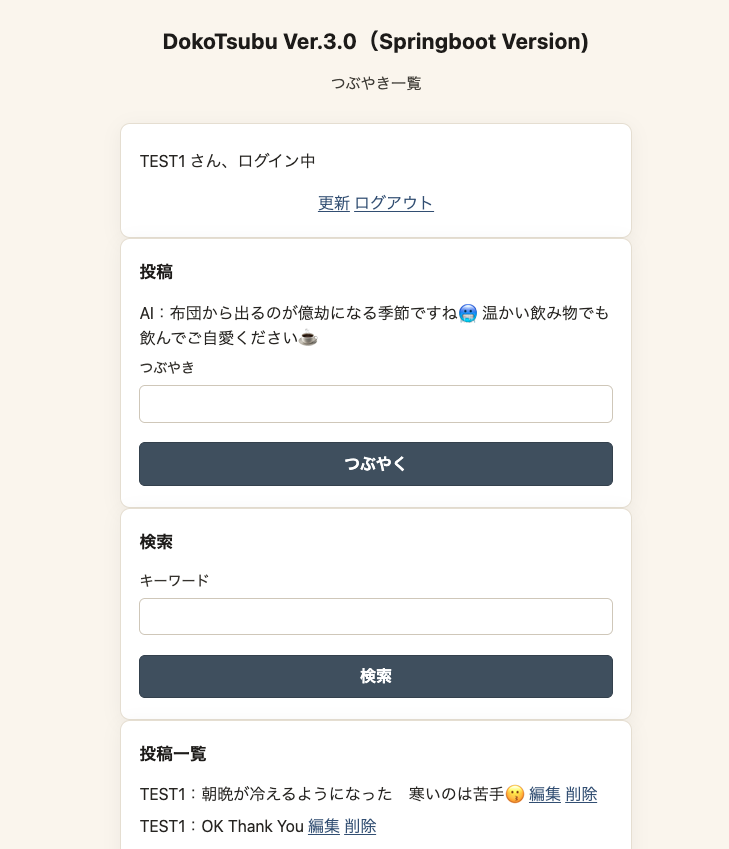
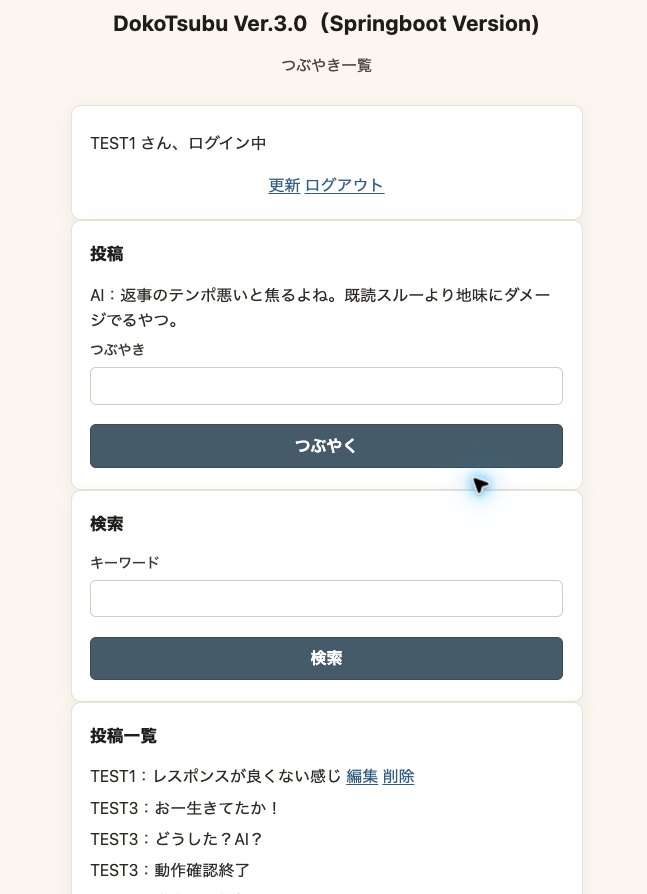
Refresh Version 3 screenshots and README preview

diff --git a/docs/design/README.md b/docs/design/README.md
@@ -14,17 +14,17 @@ README Writing Policy（README作成方針）
 -->
 
 <details>
-<summary>Document Info（文書情報）｜README-001｜1.8｜Review</summary>
+<summary>Document Info（文書情報）｜README-001｜1.9｜Review</summary>
 
 <!-- Document Info（文書情報） -->
 
 | Item（項目） | Value（値） |
 |---|---|
 | Document ID（文書ID） | README-001 |
-| Version（バージョン） | 1.8 |
+| Version（バージョン） | 1.9 |
 | Status（ステータス） | Review |
 | Created Date（作成日） | 2026-06-21 |
-| Last Updated（最終更新日） | 2026-10-05 |
+| Last Updated（最終更新日） | 2026-10-31 |
 | Owner（管理者） | Takashi Oikawa |
 | Related Documents（関連文書） | docs/standards/DESIGN_DOCUMENT_STANDARD.md / [Project README](../../README.md) / [API_SPEC.md](../specs/API_SPEC.md) / [GEMINI_INTEGRATION_SPEC.md](../specs/GEMINI_INTEGRATION_SPEC.md) / [ENVIRONMENT_SETUP_GUIDE.md](../ENVIRONMENT_SETUP_GUIDE.md) / [DEPLOYMENT_AND_OPERATION_GUIDE.md](../DEPLOYMENT_AND_OPERATION_GUIDE.md) / [CHANGELOG.md](../../CHANGELOG.md)（リポジトリルート） |
 
@@ -48,9 +48,9 @@ README Writing Policy（README作成方針）
 
 ## 1. Project Overview（プロジェクト・機能の概要）
 
-`dokoTsubu-platform` は、つぶやき共有アプリ「どこつぶ」のリポジトリである。`DokoTsubu2/` は現行 Application の正本であり、Phase 1 の機能・挙動比較基準として保持する。
+`dokoTsubu-platform` は、つぶやき共有アプリ「どこつぶ」のリポジトリである。`DokoTsubu3/` は現行公開版である。`DokoTsubu2/` は移行元の Servlet 版であり、Phase 1 の機能・挙動比較基準として保持する。ほかの設計書で「現行 DokoTsubu2」と記す箇所は、Phase 1 設計時の移行元を指し、現在の公開版を指さない。
 
-Phase 1 では `DokoTsubu2/` を直接 Spring Boot 化しない。新規 `DokoTsubu3/` を Spring Boot 版 Application の実装先とし、`DokoTsubu2` の現行機能・挙動を基準として移行する。登録・ログイン・ログアウト・一覧・投稿・検索・編集・削除・Gemini コメント生成は維持する。
+Phase 1 では `DokoTsubu2/` を直接 Spring Boot 化せず、新規 `DokoTsubu3/` を Spring Boot 版 Application の実装先とした。`DokoTsubu2` の機能・挙動を基準として移行し、登録・ログイン・ログアウト・一覧・投稿・検索・編集・削除・Gemini コメント生成を維持する設計とした。
 
 ---
 
@@ -84,7 +84,7 @@ Phase 1 では `DokoTsubu2/` を直接 Spring Boot 化しない。新規 `DokoTs
 | [01_REQUEST_DEFINITION.md](./01_REQUEST_DEFINITION.md) | Request Definition（要求定義） | Review | 1.5 | Takashi Oikawa |
 | [02_REQUIREMENTS_DEFINITION.md](./02_REQUIREMENTS_DEFINITION.md) | Requirements Definition（要件定義） | Review | 1.5 | Takashi Oikawa |
 | [03_DATA_AND_SECURITY_DESIGN.md](./03_DATA_AND_SECURITY_DESIGN.md) | Data and Security Design（データ・セキュリティ設計） | Review | 1.9 | Takashi Oikawa |
-| [04_UI_AND_FLOW_DESIGN.md](./04_UI_AND_FLOW_DESIGN.md) | UI and Flow Design（UI・フロー設計） | Review | 1.3 | Takashi Oikawa |
+| [04_UI_AND_FLOW_DESIGN.md](./04_UI_AND_FLOW_DESIGN.md) | UI and Flow Design（UI・フロー設計） | Review | 1.4 | Takashi Oikawa |
 | [05_ARCHITECTURE_DESIGN.md](./05_ARCHITECTURE_DESIGN.md) | Architecture Design（アーキテクチャ設計） | Review | 1.8 | Takashi Oikawa |
 | [06_OPERATION_AND_HANDOFF.md](./06_OPERATION_AND_HANDOFF.md) | Operation and Handoff Design（運用・詳細設計引き継ぎ） | Review | 1.9 | Takashi Oikawa |
 
@@ -103,8 +103,8 @@ Related Specifications and Guides（関連仕様・運用文書）:
 
 ## 5. Overall Design Policy（設計上の全体方針・前提）
 
-- `DokoTsubu2/` は現行 Application の正本・機能比較基準として保持する。Phase 1 では直接 Spring Boot 化しない
-- Phase 1 の Spring Boot 版実装先は新規 `DokoTsubu3/`。`DokoTsubu2` の現行機能・挙動を基準として移行する
+- `DokoTsubu2/` は移行元の Servlet 版・機能比較基準として保持する。Phase 1 では直接 Spring Boot 化しない
+- Phase 1 の Spring Boot 版実装先は `DokoTsubu3/`。`DokoTsubu2` の機能・挙動を基準として移行した現行公開版である
 - Spring Boot / Spring MVC / JSP / JDBC / MySQL / Gemini API
 - WAR + embedded Tomcat。外部 Tomcat 必須にはしない
 - Spring Security 認証基盤、JPA / Hibernate、Spring Data、Thymeleaf は導入しない
@@ -131,8 +131,8 @@ Related Specifications and Guides（関連仕様・運用文書）:
 | Term / Abbreviation（用語・略語） | Definition（定義） |
 |---|---|
 | dokoTsubu-platform | 本リポジトリ名 |
-| DokoTsubu2 | 現行 Servlet版。Phase 1 の機能・挙動比較基準 |
-| DokoTsubu3 | Phase 1 で新規作成する Spring Boot 版 |
+| DokoTsubu2 | 移行元の Servlet 版。Phase 1 の機能・挙動比較基準 |
+| DokoTsubu3 | Phase 1 で新規作成した Spring Boot 版。現行公開版 |
 | どこつぶ / DokoTsubu | アプリ名。外部 URL の context path は `/dokoTsubu` |
 | Phase 1 | Spring Boot 移行フェーズ |
 | Legacy 文書 | `docs/archive/` 配下の DokoTsubu2 時点の文書。参照のみ |

diff --git a/CHANGELOG.md b/CHANGELOG.md
@@ -12,14 +12,14 @@ Memo: Canonical Templateから新設したRepository固有履歴正本。過去A
 # CHANGELOG
 
 <details>
-<summary>Document Info（文書情報）｜CHANGELOG-001｜0.7｜Draft</summary>
+<summary>Document Info（文書情報）｜CHANGELOG-001｜0.8｜Draft</summary>
 
 <!-- Document Info（文書情報） -->
 
 | Item（項目） | Value（値） |
 |---|---|
 | Document ID（文書ID） | CHANGELOG-001 |
-| Version（バージョン） | 0.7 |
+| Version（バージョン） | 0.8 |
 | Status（ステータス） | Draft |
 | Created Date（作成日） | 2026-09-11 |
 | Last Updated（最終更新日） | 2026-10-31 |
@@ -65,6 +65,7 @@ Governance導入Baselineは、Governance導入成功後に記録する。
 
 | Version | Date | Document | Category | Changes | Author |
 |---|---|---|---|---|---|
+| 0.8 | 2026-10-31 | `README.md` / `docs/design/README.md` / `docs/design/04_UI_AND_FLOW_DESIGN.md` / `docs/design/screenshots/` / `CHANGELOG.md` | Changed | 利用者提供のVersion 3現行画面3枚を画面設計書へ配置。登録画面は入力中、ログイン結果は成功時、メイン画面は表示範囲の例と明記。既存メイン画像と縮小版を最新画像に更新し、Root READMEへ縮小版を掲載。設計書一覧のVersion 2「現行」表記を移行元・比較基準へ修正し、Version 3を現行公開版と明記。画面仕様・機能は変更しない | Takashi Oikawa |
 | 0.7 | 2026-10-31 | `README.md` / `project-notes/CURRENT.md` / `CHANGELOG.md` | Changed | README §2.1のVersion 2・3の位置付けと§6の設計・実装・レビュー担当を利用者指示に合わせて修正。利用者の「動作確認OK」報告と、公開画面の応答・本番DBの登録投稿データとプロフィール保存の読み取り結果をCURRENTへ記録。個別の本番操作試験範囲は未特定 | Takashi Oikawa |
 | 0.6 | 2026-10-31 | `project-notes/CURRENT.md` / `CHANGELOG.md` | Changed | Aiven DB利用者のパスワード再設定後、Vercel ProductionとGit管理外のローカル接続設定を更新。ローカルからのAiven読み取り接続を確認し、新環境変数でProductionを再デプロイ。source commit `0408c49` の新デプロイがReady・公開ドメイン割当となり、ログイン画面表示を確認。本番の登録・投稿・Gemini生成操作試験は未実施 | Takashi Oikawa |
 | 0.5 | 2026-10-31 | `project-notes/CURRENT.md` / `CHANGELOG.md` | Changed | Version 3本番移行・公開結果を追記。既存User 6件・Mutter 27件の初期化、Target Schema適用、GitHub main `27120a3` 反映、Vercel Production Ready、公開入口とプロフィール登録項目の表示を確認。本番の登録・投稿・Gemini生成操作試験は未実施。Aiven認証情報変更は残作業 | Takashi Oikawa |

diff --git a/docs/design/04_UI_AND_FLOW_DESIGN.md b/docs/design/04_UI_AND_FLOW_DESIGN.md
@@ -1,17 +1,17 @@
 # UI and Flow Design（UI・フロー設計）
 
 <details>
-<summary>Document Info（文書情報）｜UI-001｜1.3｜Review</summary>
+<summary>Document Info（文書情報）｜UI-001｜1.4｜Review</summary>
 
 <!-- Document Info（文書情報） -->
 
 | Item（項目） | Value（値） |
 |---|---|
 | Document ID（文書ID） | UI-001 |
-| Version（バージョン） | 1.3 |
+| Version（バージョン） | 1.4 |
 | Status（ステータス） | Review |
 | Created Date（作成日） | 2026-06-21 |
-| Last Updated（最終更新日） | 2026-10-05 |
+| Last Updated（最終更新日） | 2026-10-31 |
 | Owner（管理者） | Takashi Oikawa |
 | Related Documents（関連文書） | [Project README](../../README.md) / [README.md](./README.md) / [02_REQUIREMENTS_DEFINITION.md](./02_REQUIREMENTS_DEFINITION.md) / [03_DATA_AND_SECURITY_DESIGN.md](./03_DATA_AND_SECURITY_DESIGN.md) / [05_ARCHITECTURE_DESIGN.md](./05_ARCHITECTURE_DESIGN.md) / [API_SPEC.md](../specs/API_SPEC.md) |
 
@@ -91,13 +91,27 @@ Phase 1 で現行から変える表示:
 
 #### Screenshots（画面スクリーンショット）
 
-画面の参考画像である。画面仕様は上表と [02_REQUIREMENTS_DEFINITION.md](./02_REQUIREMENTS_DEFINITION.md) を正とする。
+画面の参考画像である。画面仕様は上表と [02_REQUIREMENTS_DEFINITION.md](./02_REQUIREMENTS_DEFINITION.md) を正とする。SCR-002・SCR-004・SCR-005は2026-10-31に利用者から提供された画像であり、一連の同一アカウントの操作記録ではない。
 
 ##### SCR-001 ログイン入口
 
 ![SCR-001 ログイン入口（DokoTsubu Ver.3.0）](./screenshots/full/login-screen.png)
 
+##### SCR-002 ユーザー登録
+
+入力中の例。選択中の値は初期値を示さず、登録完了も示さない。
+
+![SCR-002 ユーザー登録（入力中の例）](./screenshots/full/register-screen.png)
+
+##### SCR-004 ログイン結果
+
+ログイン成功時の表示例。SCR-001のログイン入口とは別画面である。
+
+![SCR-004 ログイン結果（成功時）](./screenshots/full/login-result-screen.png)
+
 ##### SCR-005 メイン
+
+投稿・検索・一覧・AIコメントの表示例。画面下部は画像の範囲外である。
 
 ![SCR-005 メイン（DokoTsubu Ver.3.0）](./screenshots/full/main-screen.png)
 
